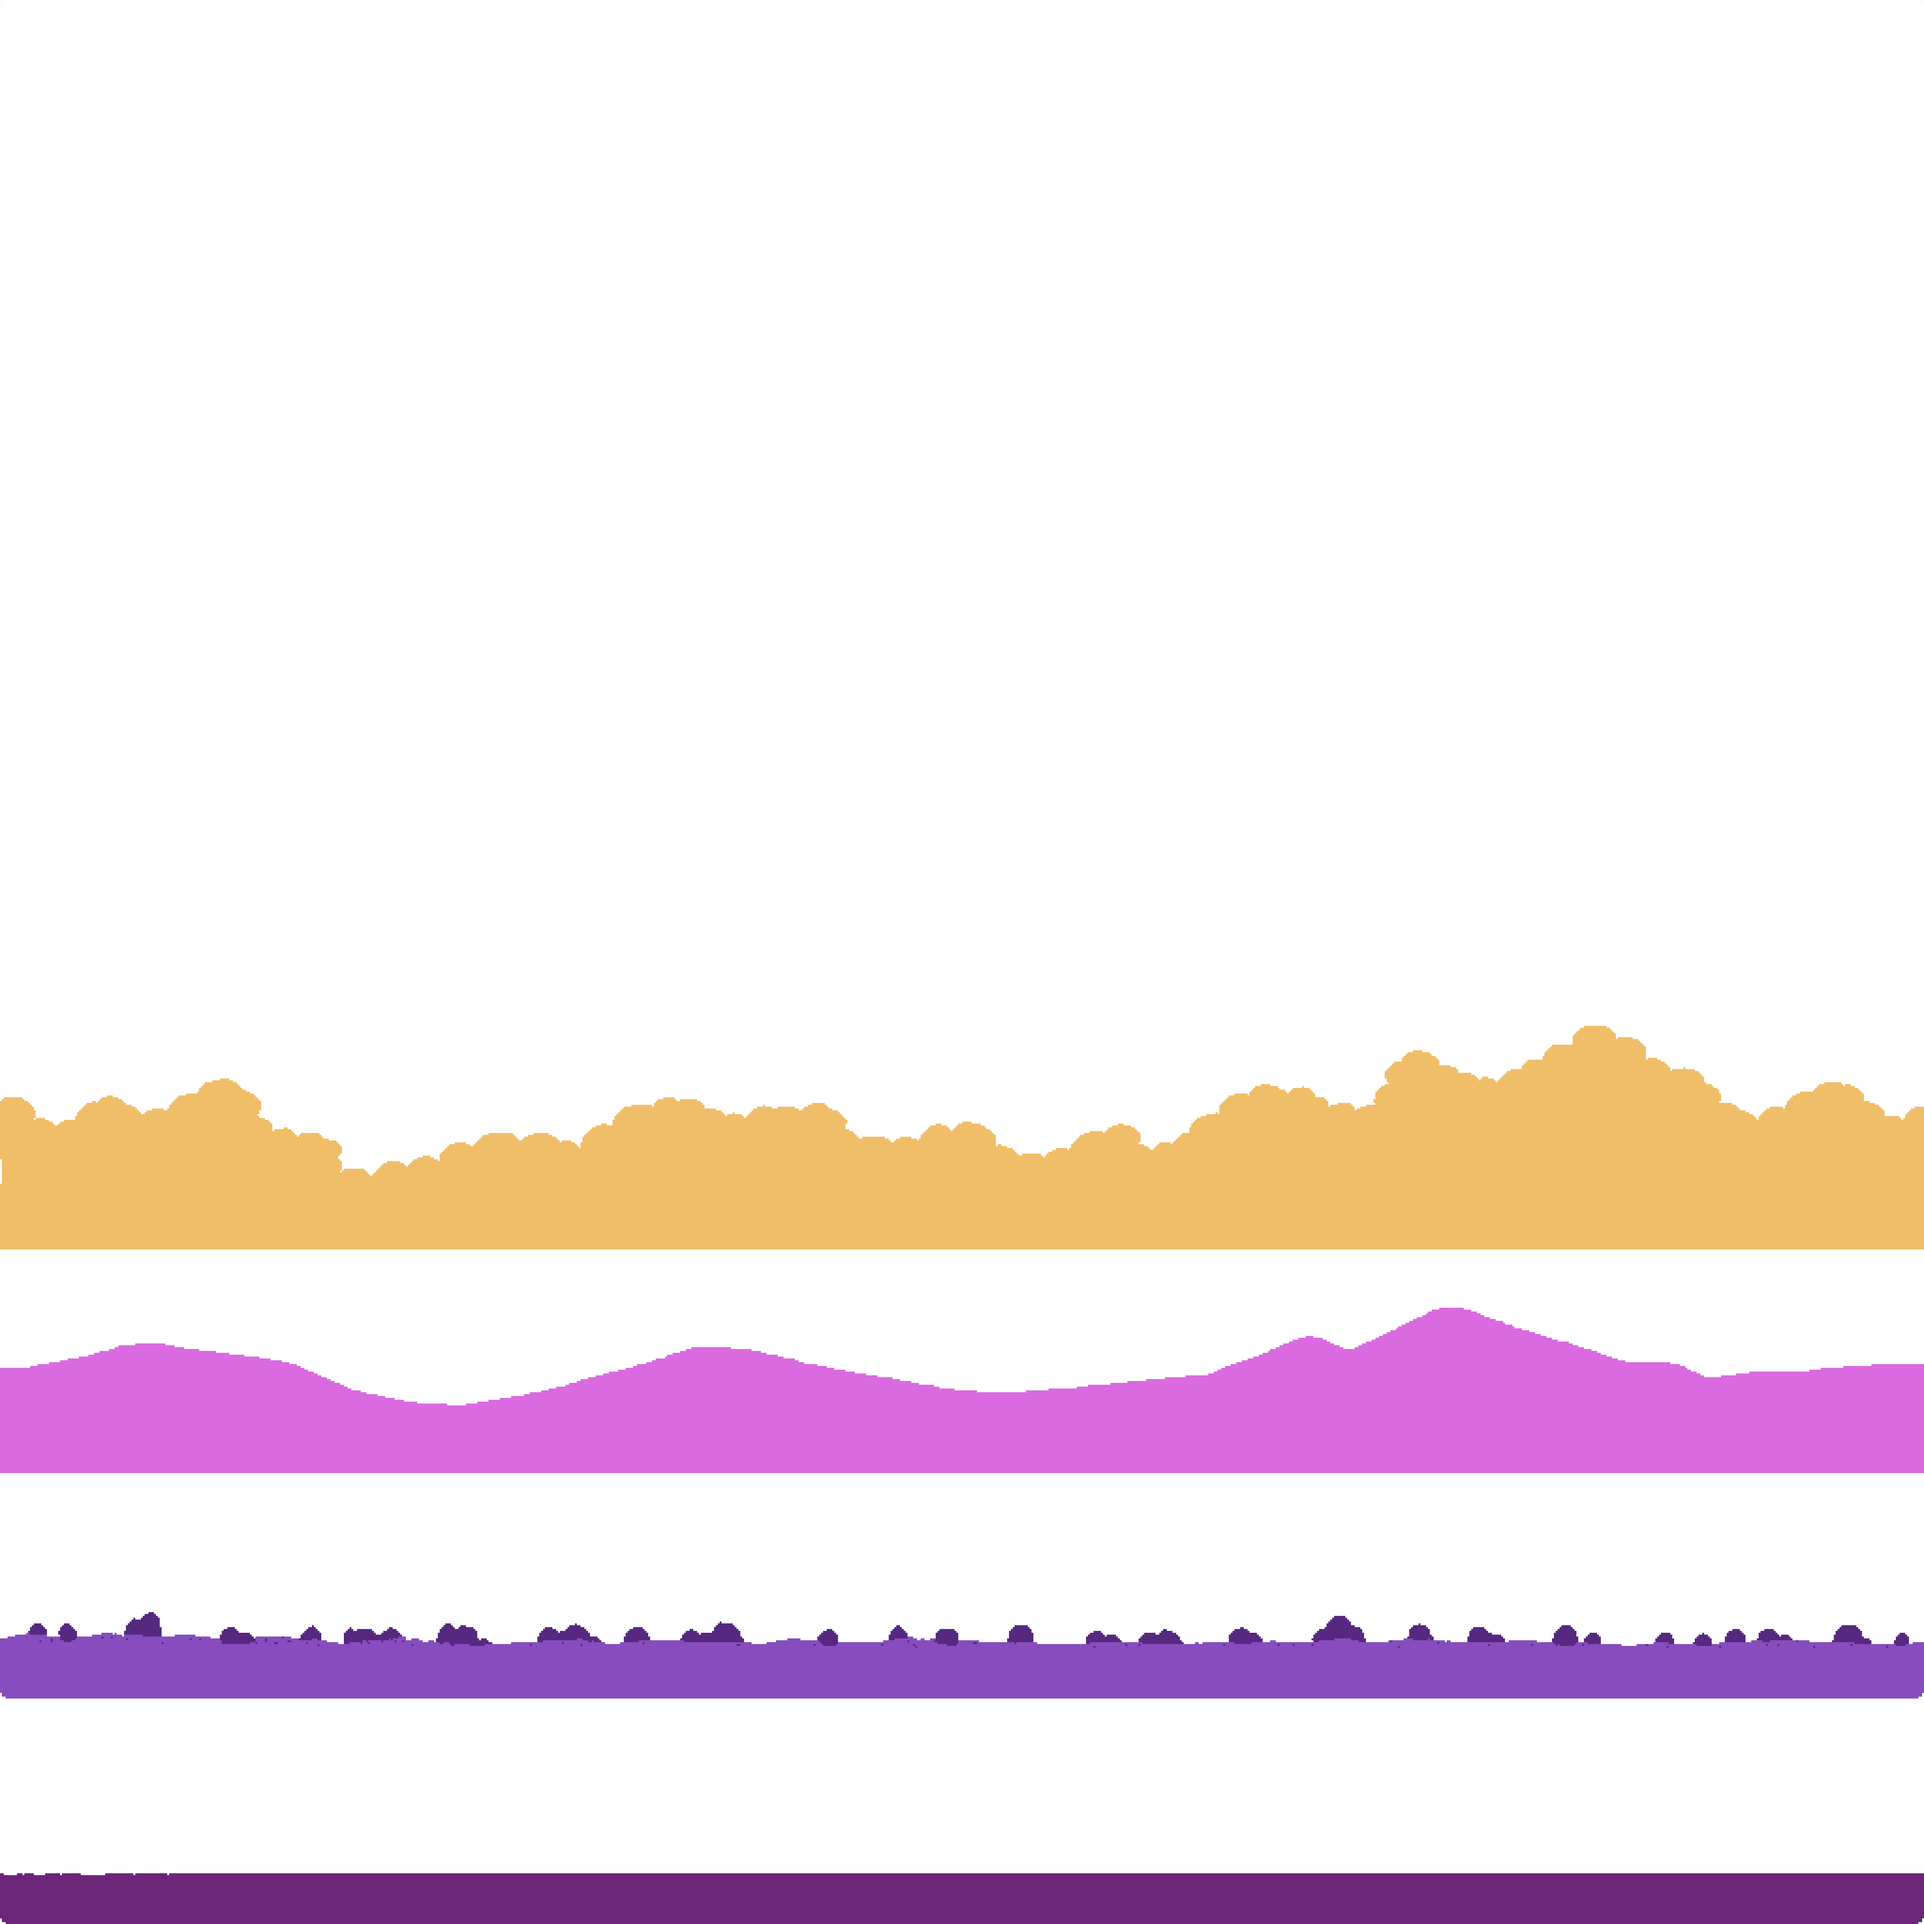
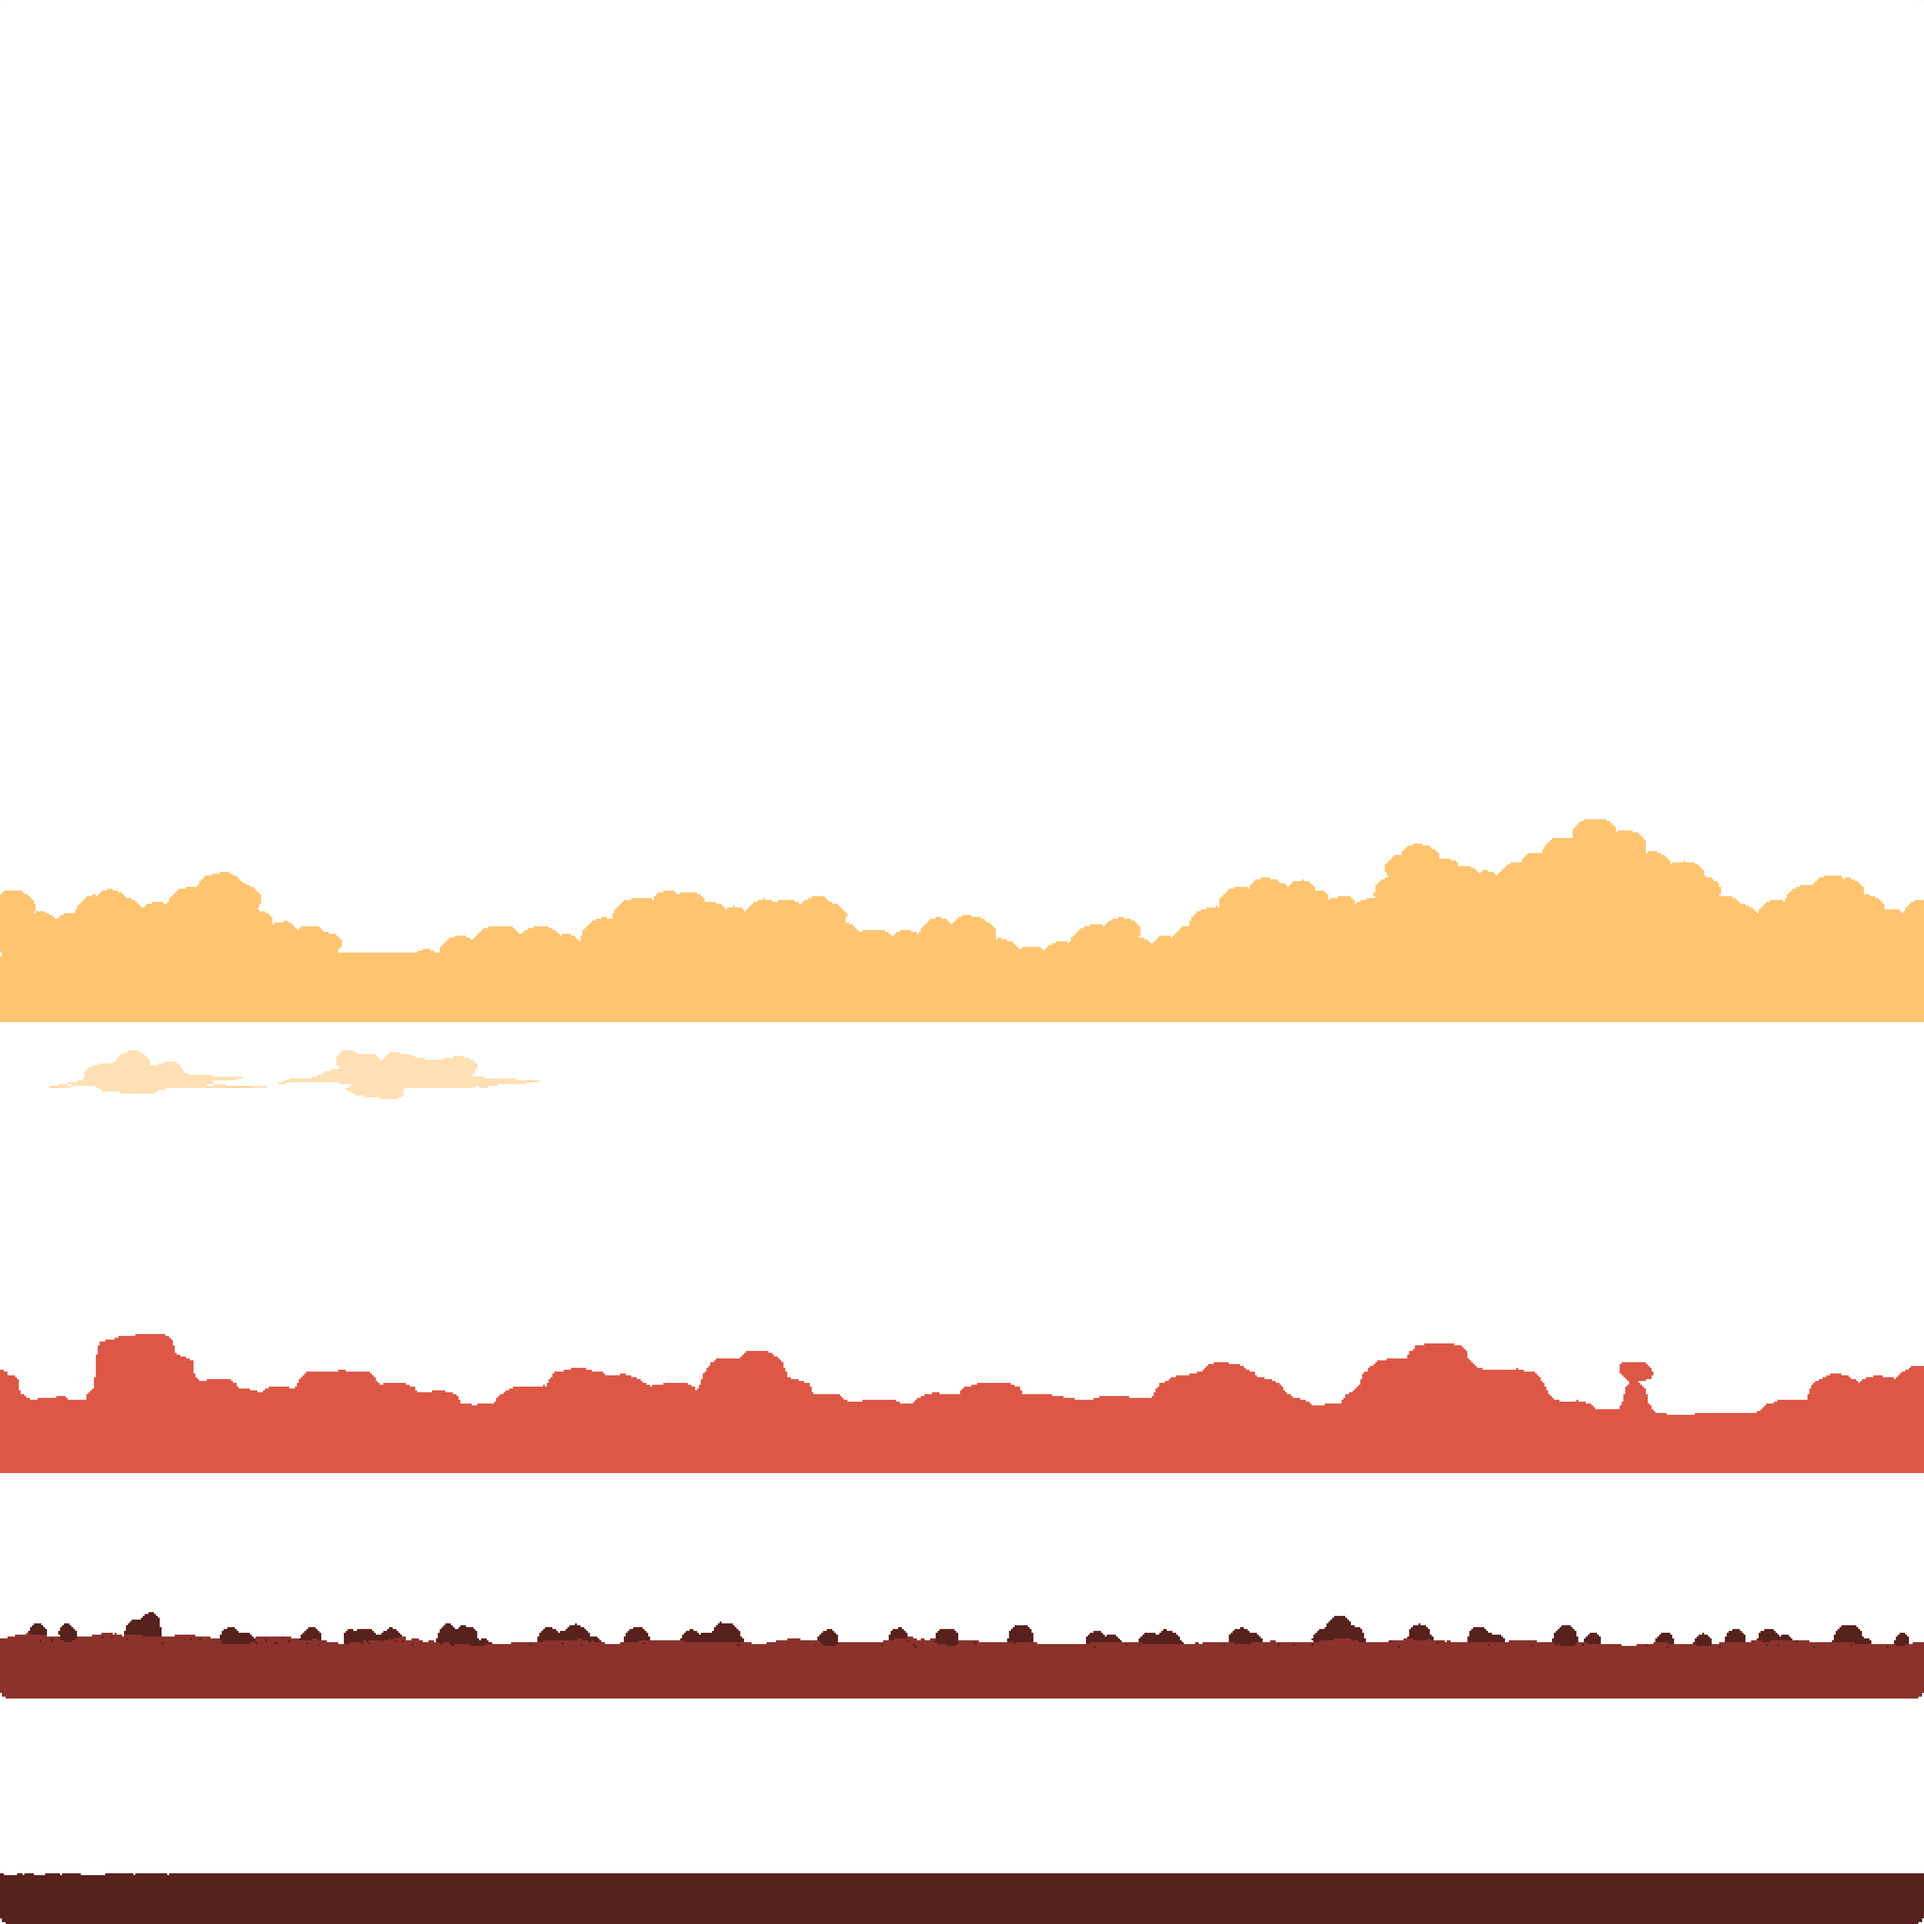
added graphics for player, bgs, coin, bottle. Improved dmg detection.

Changed region(s): [[0.0, 0.4062, 1.0, 0.7812], [0.0, 0.8438, 1.0, 0.9062], [0.0, 0.9688, 1.0, 1.0]]

diff --git a/classes/player.class.js b/classes/player.class.js
@@ -13,38 +13,24 @@ class Player extends MovableObject {
 
 
     IMAGES_WALKING = [
-        "img/2_player/2_walk/W-21.png",
-        "img/2_player/2_walk/W-22.png",
-        "img/2_player/2_walk/W-23.png",
-        "img/2_player/2_walk/W-24.png",
-        "img/2_player/2_walk/W-25.png",
-        "img/2_player/2_walk/W-26.png",
+        "imgs/player/Player_Run_01.png",
+        "imgs/player/Player_Run_02.png",
     ];
 
     IMAGES_IDLE = [
         "imgs/player/Player_Idle_01.png",
-        // "img/2_player/1_idle/idle/I-1.png",
-        // "img/2_player/1_idle/idle/I-2.png",
-        // "img/2_player/1_idle/idle/I-3.png",
-        // "img/2_player/1_idle/idle/I-4.png",
-        // "img/2_player/1_idle/idle/I-5.png",
-        // "img/2_player/1_idle/idle/I-6.png",
-        // "img/2_player/1_idle/idle/I-7.png",
-        // "img/2_player/1_idle/idle/I-8.png",
-        // "img/2_player/1_idle/idle/I-9.png",
-        // "img/2_player/1_idle/idle/I-10.png"
+        "imgs/player/Player_Idle_02.png",
+        "imgs/player/Player_Idle_03.png",
+        "imgs/player/Player_Idle_04.png",
     ];
     
     IMAGES_JUMP = [
-        "img/2_player/3_jump/J-31.png",
-        "img/2_player/3_jump/J-32.png",
-        "img/2_player/3_jump/J-33.png",
-        "img/2_player/3_jump/J-34.png",
-        "img/2_player/3_jump/J-35.png",
-        "img/2_player/3_jump/J-36.png",
-        "img/2_player/3_jump/J-37.png",
-        "img/2_player/3_jump/J-38.png",
-        "img/2_player/3_jump/J-39.png",
+        "imgs/player/Player_Jump_01.png",
+        "imgs/player/Player_Jump_02.png",
+        "imgs/player/Player_Jump_03.png",
+        "imgs/player/Player_Jump_03.png",
+        "imgs/player/Player_Jump_03.png",
+        "imgs/player/Player_Jump_03.png",
     ];
 
     IMAGES_DEAD = [
@@ -58,9 +44,8 @@ class Player extends MovableObject {
     ];
 
     IMAGES_HURT = [
-        "img/2_player/4_hurt/H-41.png",
-        "img/2_player/4_hurt/H-42.png",
-        "img/2_player/4_hurt/H-43.png",
+        "imgs/player/Player_Hurt_01.png",
+        "imgs/player/Player_Hurt_02.png",
     ];
 
     currentImage = 0;

diff --git a/js/game.js b/js/game.js
@@ -16,11 +16,12 @@ const groundLayer = level01.bgs[0];
 const desertLayer = level01.bgs[1];
 const mountainLayer = level01.bgs[2];
 const cloudLayer = level01.bgs[3];
+const cloudBgLayer = level01.bgs[4];
 
 function init() {
     canvas = document.getElementById("canvas");
     world = new World(canvas, keyboard);
-
+    
     canvas.width = canvasWidth;
     canvas.height = canvasHeight;
 }
@@ -34,6 +35,7 @@ window.addEventListener("keydown", (event) => {
         desertLayer.moveBgRight = true;
         mountainLayer.moveBgRight = true;
         cloudLayer.moveBgRight = true;
+        cloudBgLayer.moveBgRight = true;
     } 
     if (event.key == "d") {
         keyboard.RIGHT = true;
@@ -42,6 +44,7 @@ window.addEventListener("keydown", (event) => {
         desertLayer.moveBgLeft = true;
         mountainLayer.moveBgLeft = true;
         cloudLayer.moveBgLeft = true;
+        cloudBgLayer.moveBgLeft = true;
     } 
     if (event.key == " ") {
         keyboard.JUMP = true;
@@ -59,6 +62,7 @@ window.addEventListener("keyup", (event) => {
         desertLayer.moveBgRight = false;
         mountainLayer.moveBgRight = false;
         cloudLayer.moveBgRight = false;
+        cloudBgLayer.moveBgRight = false;
     }
     if (event.key == "d") {
         keyboard.RIGHT = false;
@@ -66,6 +70,7 @@ window.addEventListener("keyup", (event) => {
         desertLayer.moveBgLeft = false;
         mountainLayer.moveBgLeft = false;
         cloudLayer.moveBgLeft = false;
+        cloudBgLayer.moveBgLeft = false;
     }
     if (event.key == " ") {
         keyboard.JUMP = false;

diff --git a/classes/bg.class.js b/classes/bg.class.js
@@ -7,8 +7,6 @@ class Bg extends MovableObject {
         this.width = 4096;
         this.x = x;
         this.y = y;
-        console.log("x:" + x,"y:" + y);
-        // this.y = 780 - this.height;
         this.parallax();
         this.path = imagePath;
     }
@@ -17,15 +15,17 @@ class Bg extends MovableObject {
     parallax() {
         setInterval(() => {
             if (this.moveBgLeft) {
-                if(this.y == -3136 && this.x <= 0) {this.moveBGLeft(2);} // desert
-                if(this.y == -2656 && this.x <= 0) {this.moveBGLeft(1.5);} // mountains
+                if(this.y == -3136 && this.x <= 0) {this.moveBGLeft(3);} // desert
+                if(this.y == -2656 && this.x <= 0) {this.moveBGLeft(2.5);} // mountains
                 if(this.y == -2176 && this.x <= 0) {this.moveBGLeft(1);} // clouds
+                if(this.y == -2176 && this.x <= 0) {this.moveBGLeft(0.5);} // clouds BG
             } 
 
             if (this.moveBgRight) {
-                if(this.y == -3136 && this.x < 0) {this.moveBGRight(2);} // desert
-                if(this.y == -2656 && this.x < 0) {this.moveBGRight(1.5);} // mountains
+                if(this.y == -3136 && this.x < 0) {this.moveBGRight(3);} // desert
+                if(this.y == -2656 && this.x < 0) {this.moveBGRight(2.5);} // mountains
                 if(this.y == -2176 && this.x < 0) {this.moveBGRight(1);} // clouds
+                if(this.y == -2176 && this.x < 0) {this.moveBGRight(0.5);} // clouds BG
             } 
         }, 1000/60);        
     }

diff --git a/classes/bottle.class.js b/classes/bottle.class.js
@@ -5,15 +5,30 @@ class Bottle extends MovableObject {
 
     
     IMAGES_IDLE = [
-        "img/6_ammo/1_salsa_bottle_on_ground.png",
+        "imgs/bottle/Bottle_Idle_02.png",
+        "imgs/bottle/Bottle_Idle_02.png",
+        "imgs/bottle/Bottle_Idle_03.png",
+        "imgs/bottle/Bottle_Idle_03.png",
+        "imgs/bottle/Bottle_Idle_02.png",
+        "imgs/bottle/Bottle_Idle_02.png",
+        "imgs/bottle/Bottle_Idle_01.png",
+        "imgs/bottle/Bottle_Idle_04.png",
+        "imgs/bottle/Bottle_Idle_01.png",
+        "imgs/bottle/Bottle_Idle_04.png",
+        "imgs/bottle/Bottle_Idle_02.png",
+        "imgs/bottle/Bottle_Idle_02.png",
+        "imgs/bottle/Bottle_Idle_03.png",
+        "imgs/bottle/Bottle_Idle_03.png",
+        "imgs/bottle/Bottle_Idle_02.png",
+        "imgs/bottle/Bottle_Idle_02.png",
     ];
 
     
     constructor() {
-        super().loadImage("img/6_ammo/1_salsa_bottle_on_ground.png");
+        super().loadImage("imgs/bottle/Bottle_Idle_01.png");
         this.loadImages(this.IMAGES_IDLE);
         this.x = 300;
-        this.y = 370;
+        this.y = 350;
         this.width = 50;
         this.height = 50;
         this.animate();

diff --git a/classes/status-bar.js b/classes/status-bar.js
@@ -1,12 +1,12 @@
 class StatusBar extends DrawableObject{
 
     IMAGES = [
-        "img/7_statusbars/1_statusbar/2_statusbar_health/blue/0.png",
-        "img/7_statusbars/1_statusbar/2_statusbar_health/blue/20.png",
-        "img/7_statusbars/1_statusbar/2_statusbar_health/blue/40.png",
-        "img/7_statusbars/1_statusbar/2_statusbar_health/blue/60.png",
-        "img/7_statusbars/1_statusbar/2_statusbar_health/blue/80.png",
-        "img/7_statusbars/1_statusbar/2_statusbar_health/blue/100.png",
+        "imgs/ui/player_hp_bar/HP_Bars_01.png",
+        "imgs/ui/player_hp_bar/HP_Bars_02.png",
+        "imgs/ui/player_hp_bar/HP_Bars_03.png",
+        "imgs/ui/player_hp_bar/HP_Bars_04.png",
+        "imgs/ui/player_hp_bar/HP_Bars_05.png",
+        "imgs/ui/player_hp_bar/HP_Bars_06.png",
     ]
 
     percentage = 100;
@@ -17,8 +17,8 @@ class StatusBar extends DrawableObject{
         this.loadImages(this.IMAGES);
         this.x = 20;
         this.y = 50;
-        this.height = 50;
-        this.width = 200;
+        this.height = 64;
+        this.width = 128;
         this.setPercentage(100);
     }
 

diff --git a/levels/level_01.js b/levels/level_01.js
@@ -1,18 +1,19 @@
 const level01 = new Level(
     [
-        new Bg("imgs/bgs/BG_1024px.png", 0, -2176), // clouds
+        new Bg("imgs/bgs/BG_1024px.png", 0, -1696), // clouds big
+        new Bg("imgs/bgs/BG_1024px.png", 0, -2176), // clouds small
         new Bg("imgs/bgs/BG_1024px.png", 0, -2656), // mountains
         new Bg("imgs/bgs/BG_1024px.png", 0, -3136), // desert
         new Bg("imgs/bgs/BG_1024px.png", 0, -3616), // ground
     ], 
 
     [
-        new Cloud()
+        // new Bg("imgs/bgs/BG_1024px.png", 0, -2176), // clouds
     ],
 
     [
         // new Npc(),
-        // new Npc(),
+        new Npc(),
 
         // new Boss()
     ],
@@ -24,6 +25,15 @@ const level01 = new Level(
     ],
 
     [
+        new Coin(),
+        new Coin(),
+        new Coin(),
+        new Coin(),
+        new Coin(),
+        new Coin(),
+        new Coin(),
+        new Coin(),
+        new Coin(),
         new Coin(),
         new Coin(),
         new Coin(),

diff --git a/classes/bottle-count.class.js b/classes/bottle-count.class.js
@@ -1,17 +1,18 @@
 class BottleCount extends DrawableObject {
 
-    bottleCount = 10;
+    bottleCount = 0;
+    currentImage = 0;
 
 
     IMAGES = [
-        "img/6_ammo/1_salsa_bottle_on_ground.png",   
+        "imgs/bottle/Bottle_Throw_01.png",   
     ]
 
     constructor() {
-        super().loadImage("img/6_ammo/1_salsa_bottle_on_ground.png");
+        super().loadImage("imgs/bottle/Bottle_Throw_01.png");
         this.loadImages(this.IMAGES);
-        this.x = 100;
-        this.y = 100;
+        // this.x = 100;
+        // this.y = 100;
         this.width = 50;
         this.height = 50;
     }
@@ -28,7 +29,7 @@ class BottleCount extends DrawableObject {
 
 
     displayBottelCountText = (ctx) => { 
-        ctx.font = "24px Pixelify Sans";
+        ctx.font = "32px Pixelify Sans";
         ctx.fillStyle = "white";
         ctx.fillText("SALSA:" + this.bottleCount, 30, 40);
     }

diff --git a/classes/coin.class.js b/classes/coin.class.js
@@ -2,18 +2,24 @@ class Coin extends MovableObject {
 
     currentImage = 0;
     pickedUp = false;
+    randomHeightPos = Math.random() * 200;
 
 
     IMAGES_IDLE = [
-        "img/8_coin/coin_1.png",
-        "img/8_coin/coin_2.png",
+        "imgs/coin/Coin_01.png",
+        "imgs/coin/Coin_02.png",
+        "imgs/coin/Coin_03.png",
+        "imgs/coin/Coin_04.png",
+        "imgs/coin/Coin_05.png",
+        "imgs/coin/Coin_06.png",
+        "imgs/coin/Coin_07.png",
     ];
 
     constructor() {
-        super().loadImage("img/8_coin/coin_1.png");
+        super().loadImage("imgs/coin/Coin_01.png");
         this.loadImages(this.IMAGES_IDLE);
         this.x = 300;
-        this.y = 170;
+        this.y = 50 + this.randomHeightPos;
         this.width = 50;
         this.height = 50;
         this.animate();

diff --git a/classes/world.class.js b/classes/world.class.js
@@ -65,7 +65,7 @@ class World {
                     && (!(enemy instanceof Boss))) {
                         enemy.dead(this.level.enemies, enemy);
                 } else {
-                    this.player.hit();
+                    this.player.hit(0.5);
                     this.statusBar.setPercentage(this.player.health);
                 }
             }
@@ -93,7 +93,7 @@ class World {
 
         this.eggs.forEach((egg) => {
             if (this.player.isColliding(egg)){
-                this.player.hit();
+                this.player.hit(20);
                 this.statusBar.setPercentage(this.player.health);
                 egg.removeEgg(this.eggs, egg);
             }

diff --git a/game-style.css b/game-style.css
@@ -3,6 +3,7 @@ body{
     color: white;
     font-family: 'Segoe UI', Tahoma, Geneva, Verdana, sans-serif;
     height: 100%;
+    text-rendering: crisp-edges;
 
     display: flex;
     flex-direction: column;
@@ -12,7 +13,7 @@ body{
 }
 
 canvas{
-    background-color: #2e2e2e;
+    background-color: #4793AF;
     display: block;
     image-rendering: pixelated;
 }

diff --git a/classes/coin-count.class.js b/classes/coin-count.class.js
@@ -28,8 +28,8 @@ class CoinCount extends DrawableObject {
 
 
     displayCoinCountText = (ctx) => { 
-        ctx.font = "24px Pixelify Sans";
+        ctx.font = "32px Pixelify Sans";
         ctx.fillStyle = "white";
-        ctx.fillText("COINS:" + this.coinCount, 150, 40);
+        ctx.fillText("COINS:" + this.coinCount, 250, 40);
     }
 }

diff --git a/classes/movable-object.class.js b/classes/movable-object.class.js
@@ -83,8 +83,8 @@ class MovableObject extends DrawableObject {
     }
 
 
-    hit() {
-        this.health -= 2;
+    hit(dmg) {
+        this.health -= dmg;
         if (this.health < 0) {
             this.health = 0;
         } else {
